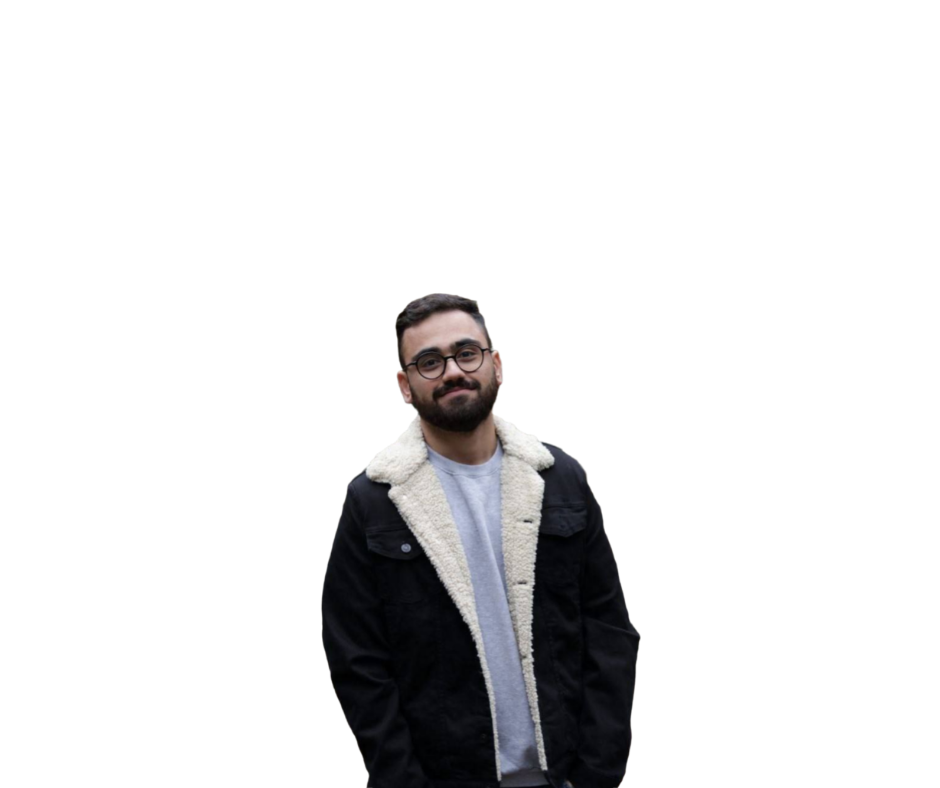
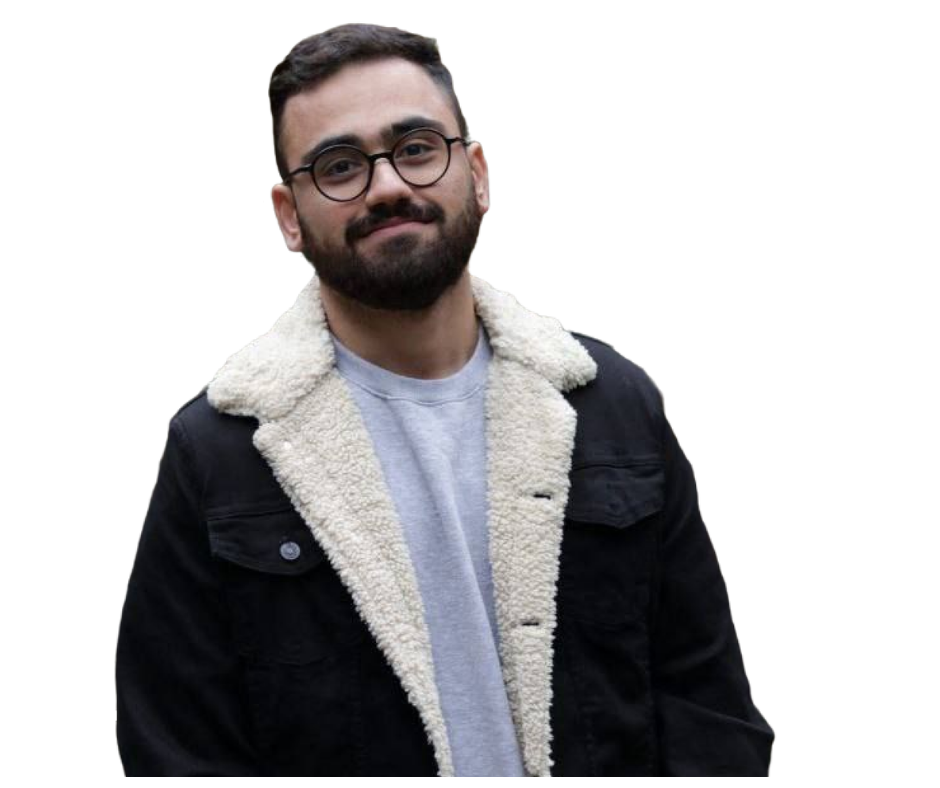
add curse btn and my image for course

diff --git a/lib/widgets/course_details/course_details.dart b/lib/widgets/course_details/course_details.dart
@@ -1,12 +1,14 @@
 import 'package:flutter/material.dart';
 import 'package:mahdinaghikhani/theme/constant.dart';
 import 'package:mahdinaghikhani/widgets/centered_view/centered_view.dart';
+import 'package:mahdinaghikhani/widgets/course_details/curse_btn.dart';
 
 class CourseDetails extends StatelessWidget {
   const CourseDetails({Key? key}) : super(key: key);
 
   @override
   Widget build(BuildContext context) {
+    final textTheme = Theme.of(context).textTheme;
     final size = MediaQuery.of(context).size;
     return Padding(
       padding: const EdgeInsets.all(8.0),
@@ -16,45 +18,79 @@ class CourseDetails extends StatelessWidget {
               color: klightBlue, borderRadius: BorderRadius.circular(20)),
           width: size.width * 0.99,
           height: 500,
-          child: Padding(
-            padding: const EdgeInsets.all(30.0),
-            child: Column(
-              crossAxisAlignment: CrossAxisAlignment.start,
-              mainAxisAlignment: MainAxisAlignment.center,
-              // ignore: prefer_const_literals_to_create_immutables
-              children: <Widget>[
-                Text(
-                  'Hello!',
-                  style: TextStyle(
-                      color: kblue,
-                      fontWeight: FontWeight.w800,
-                      height: 0.9,
-                      fontSize: 40),
-                ),
-                SizedBox(
-                  height: 30,
-                ),
-                RichText(
-                    text: TextSpan(children: [
-                  TextSpan(
-                      text: "I\'m ",
-                      style: TextStyle(height: 0.9, fontSize: 50)),
-                  const TextSpan(
-                    text: "Flutter Developer",
+          child: Row(children: [
+            Padding(
+              padding: const EdgeInsets.all(90.0),
+              child: Column(
+                crossAxisAlignment: CrossAxisAlignment.start,
+                mainAxisAlignment: MainAxisAlignment.center,
+                // ignore: prefer_const_literals_to_create_immutables
+                children: <Widget>[
+                  const Text(
+                    'Hello!',
                     style: TextStyle(
-                        fontWeight: FontWeight.w800, height: 0.9, fontSize: 50),
+                        color: kblue,
+                        fontWeight: FontWeight.w800,
+                        height: 0.9,
+                        fontSize: 30),
+                  ),
+                  const SizedBox(
+                    height: 30,
+                  ),
+                  RichText(
+                      text: TextSpan(children: [
+                    TextSpan(
+                        text: "I'm ",
+                        style: TextStyle(
+                            height: 0.9, fontSize: 50, color: lightblack)),
+                    TextSpan(
+                      text: "Flutter Developer",
+                      style: TextStyle(
+                          fontWeight: FontWeight.w800,
+                          height: 0.9,
+                          fontSize: 50,
+                          color: Colors.black),
+                    )
+                  ])),
+                  const SizedBox(
+                    height: 30,
+                  ),
+                  const Text(
+                    'A freelance mobile app developer',
+                    style: TextStyle(fontSize: 25, height: 1.7, color: kblack),
+                  ),
+                  SizedBox(
+                    height: 30,
+                  ),
+                  Row(
+                    children: [
+                      CourseBtn(
+                        text: "Hire me",
+                        color: kblue,
+                      ),
+                      CourseBtn(
+                        text: "Hire me",
+                        color: kblue,
+                      )
+                    ],
                   )
-                ])),
-                const SizedBox(
-                  height: 30,
-                ),
-                const Text(
-                  'dsajdhsa sdj shsj j dsjh sjdjs hdjs jshdj shjdsh jsdjs hjsh jsjd j,dsjdhsjdhsjdhsjdsdhsjdjsdhsjdhsj, djjs h jds jksj sj',
-                  style: TextStyle(fontSize: 21, height: 1.7),
-                )
-              ],
+                ],
+              ),
             ),
-          ),
+            Spacer(),
+            Center(
+              child: Container(
+                  height: 480,
+                  width: 590,
+                  child: Center(
+                      child: Image.asset(
+                    'assets/img/mahdi.png',
+                    width: size.width,
+                    height: size.height,
+                    fit: BoxFit.fill,
+                  ))),
+            )
+          ]),
         ),
       ),
     );

diff --git a/lib/views/home/home_views.dart b/lib/views/home/home_views.dart
@@ -1,4 +1,5 @@
 // ignore_for_file: prefer_const_constructors
+import 'package:flutter/gestures.dart';
 import 'package:flutter/material.dart';
 import 'package:mahdinaghikhani/widgets/centered_view/centered_view.dart';
 import 'package:mahdinaghikhani/widgets/course_details/course_details.dart';
@@ -9,17 +10,23 @@ class HomeView extends StatelessWidget {
 
   @override
   Widget build(BuildContext context) {
-    return Scaffold(
-      body: CenteredView(
-        child: Column(
-          children: <Widget>[
-            const NavigationBars(),
-            Expanded(
-                child: Column(
-              // ignore: prefer_const_literals_to_create_immutables
-              children: [CourseDetails()],
-            ))
-          ],
+    return ScrollConfiguration(
+      behavior: ScrollConfiguration.of(context).copyWith(
+          dragDevices: {PointerDeviceKind.touch, PointerDeviceKind.mouse}),
+      child: Scaffold(
+        body: CenteredView(
+          child: Column(
+            children: <Widget>[
+              const NavigationBars(),
+              Expanded(
+                  child: Column(
+                // ignore: prefer_const_literals_to_create_immutables
+                children: [
+                  CourseDetails(),
+                ],
+              ))
+            ],
+          ),
         ),
       ),
     );

diff --git a/lib/theme/configtheme.dart b/lib/theme/configtheme.dart
@@ -36,10 +36,11 @@ class ConfigTheme {
               TextStyle(fontSize: 20, color: isDarkTheme ? kwhite : kblack),
           headlineLarge: const TextStyle(
               fontWeight: FontWeight.bold, fontSize: 20, color: korange),
-          headline5: TextStyle(
-              fontWeight: FontWeight.bold,
-              fontSize: 20,
-              color: isDarkTheme ? kwhite : kblack)),
+          headline5: const TextStyle(
+              fontWeight: FontWeight.w800,
+              height: 0.9,
+              fontSize: 50,
+              color: Colors.black)),
       primaryColor: isDarkTheme ? Colors.black : kwhite,
       backgroundColor: isDarkTheme ? Colors.black : kwhite,
       scaffoldBackgroundColor: isDarkTheme ? kblack : kwhite,

diff --git a/lib/widgets/course_details/curse_btn.dart b/lib/widgets/course_details/curse_btn.dart
@@ -1,0 +1,24 @@
+import 'package:flutter/material.dart';
+
+class CourseBtn extends StatelessWidget {
+  const CourseBtn({Key? key, required this.text, required this.color})
+      : super(key: key);
+
+  final String text;
+  final Color color;
+
+  @override
+  Widget build(BuildContext context) {
+    return Container(
+      width: 120,
+      height: 40,
+      decoration: BoxDecoration(
+        borderRadius: BorderRadius.circular(10),
+        color: color,
+      ),
+      child: Center(
+        child: Text(text),
+      ),
+    );
+  }
+}

diff --git a/lib/theme/constant.dart b/lib/theme/constant.dart
@@ -14,6 +14,8 @@ const Color kblue = Color(0xFF1E88E5);
 const Color korange = Color(0xFFFFA726);
 const Color grey = Colors.grey;
 const Color klightBlue = Color(0xFFE3F2FD);
+const Color lightblack = Color(0xFF424242);
+
 const IconData arrowdownleft = CupertinoIcons.arrow_down_left;
 const IconData arrowupright = CupertinoIcons.arrow_up_right;
 

diff --git a/lib/widgets/navigation_bar/navigation_bar.dart b/lib/widgets/navigation_bar/navigation_bar.dart
@@ -101,7 +101,7 @@ class _NavBarItem extends StatelessWidget {
       title,
       style: const TextStyle(
         fontSize: 14,
-        color: kblack,
+        color: Colors.black,
         fontFamily: Constans.iranYekan,
       ),
     );
